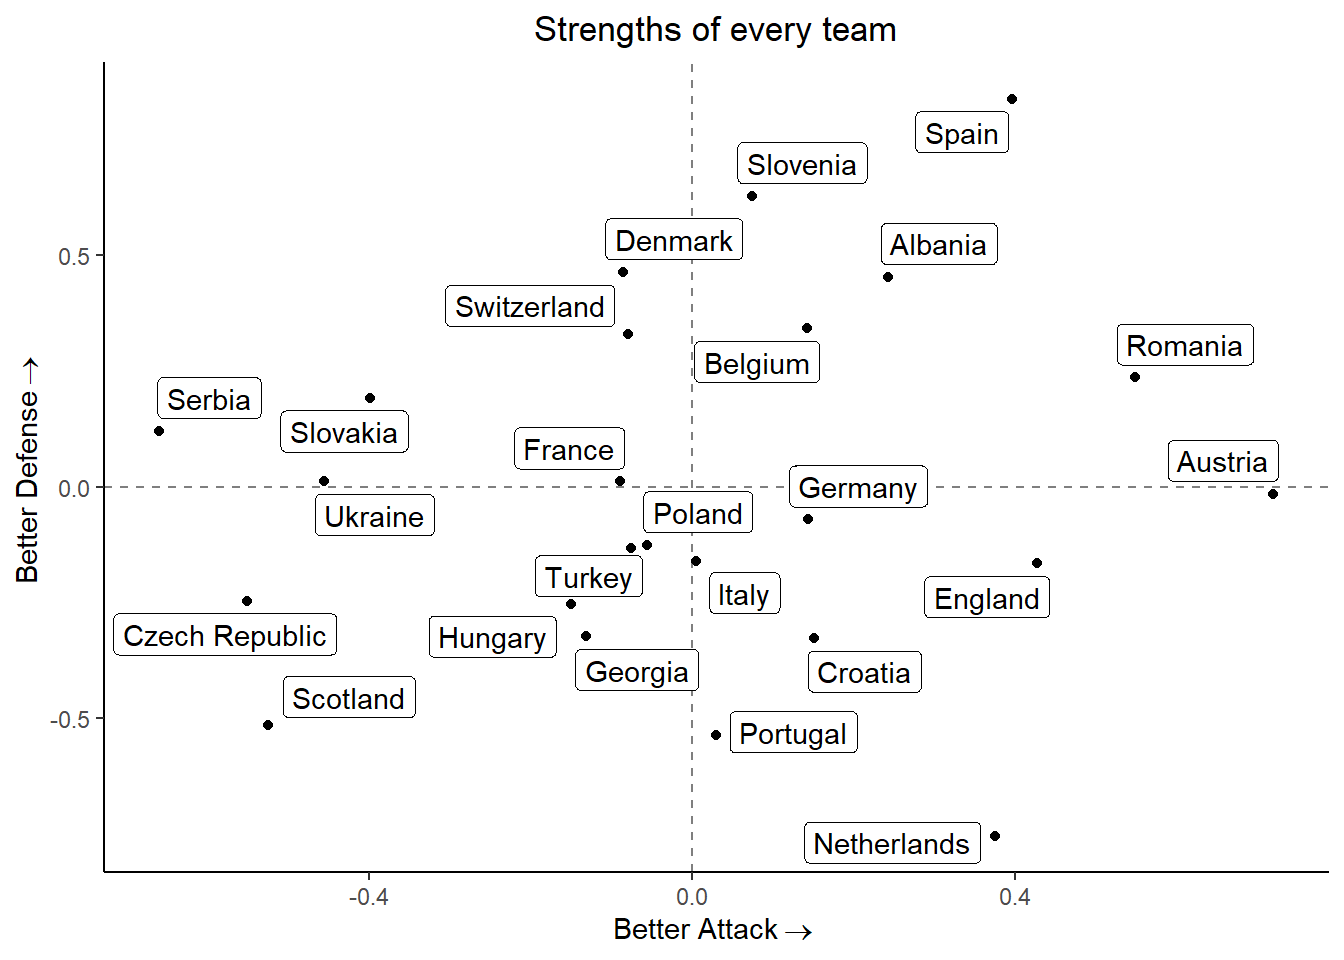
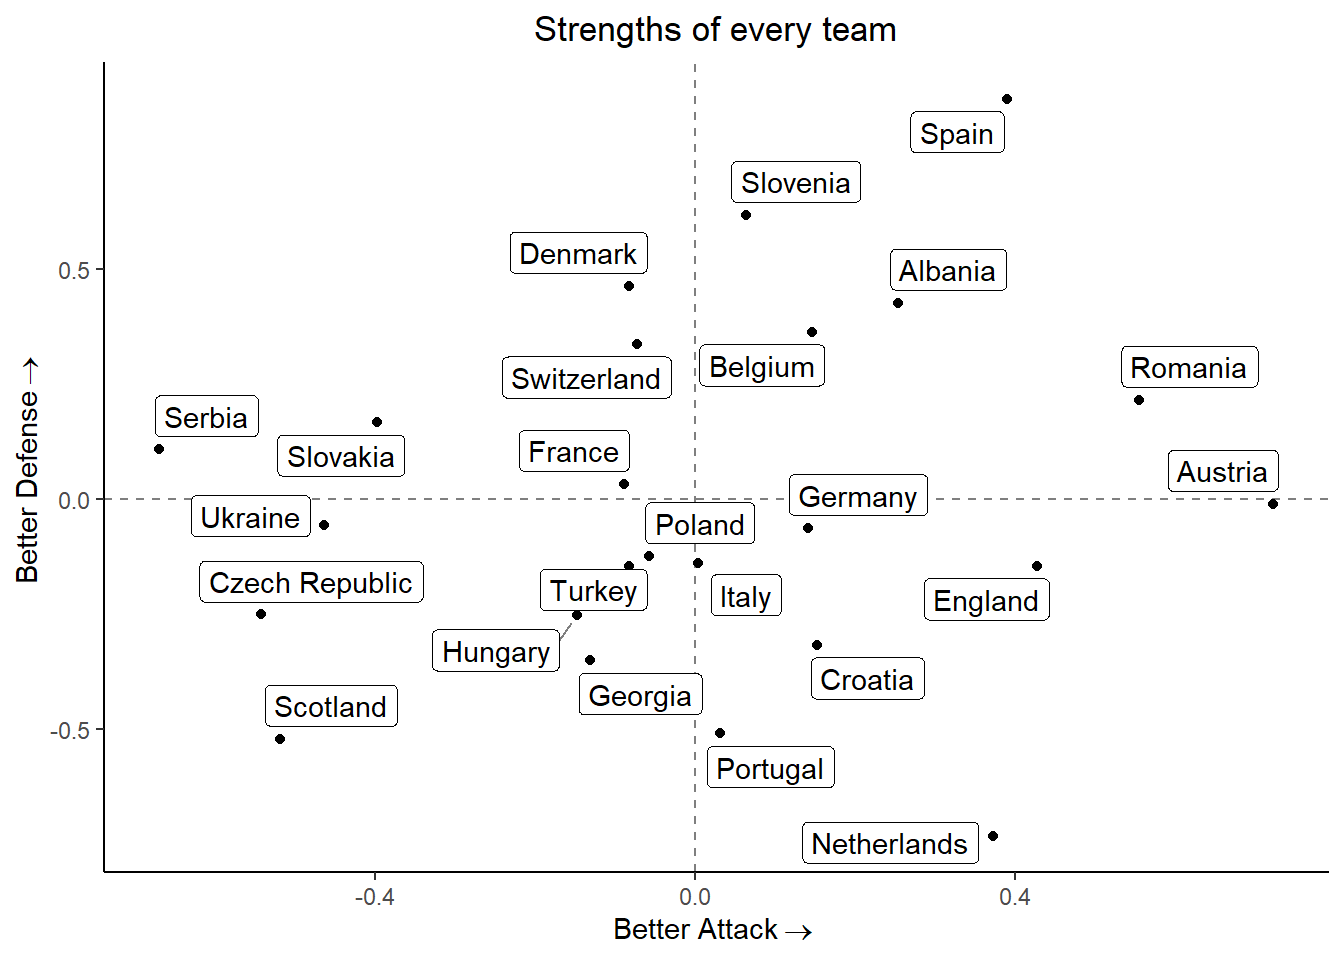
update euro

diff --git a/docs/projects/euro_2024.html b/docs/projects/euro_2024.html
@@ -285,7 +285,7 @@ pre > code.sourceCode > span > a:first-child::before { text-decoration: underlin
 6 2024-06-22 Turkey    Portugal            0          3 UEFA Euro  Dort… Germany
 7 2024-06-26 Georgia   Portugal            2          0 UEFA Euro  Gels… Germany
 8 2024-07-01 Portugal  Slovenia            0          0 UEFA Euro  Fran… Germany
-9 2024-07-05 Portugal  France             NA         NA UEFA Euro  Hamb… Germany
+9 2024-07-05 Portugal  France              0          0 UEFA Euro  Hamb… Germany
 # ℹ 3 more variables: neutral &lt;lgl&gt;, id &lt;int&gt;, cup &lt;chr&gt;</code></pre>
 </div>
 </div>
@@ -294,7 +294,7 @@ pre > code.sourceCode > span > a:first-child::before { text-decoration: underlin
 <div class="sourceCode cell-code" id="cb8"><pre class="sourceCode r code-with-copy"><code class="sourceCode r"><span id="cb8-1"><a href="#cb8-1" aria-hidden="true" tabindex="-1"></a>scores <span class="sc">%&gt;%</span> </span>
 <span id="cb8-2"><a href="#cb8-2" aria-hidden="true" tabindex="-1"></a>  <span class="fu">filter</span>(home_team <span class="sc">==</span> <span class="st">"Colombia"</span> <span class="sc">|</span> away_team <span class="sc">==</span> <span class="st">"Colombia"</span>)</span></code><button title="Copy to Clipboard" class="code-copy-button"><i class="bi"></i></button></pre></div>
 <div class="cell-output cell-output-stdout">
-<pre><code># A tibble: 12 × 11
+<pre><code># A tibble: 13 × 11
    date       home_team away_team home_score away_score tournament city  country
    &lt;date&gt;     &lt;chr&gt;     &lt;chr&gt;          &lt;dbl&gt;      &lt;dbl&gt; &lt;chr&gt;      &lt;chr&gt; &lt;chr&gt;  
  1 2023-09-07 Colombia  Venezuela          1          0 FIFA Worl… Barr… Colomb…
@@ -308,7 +308,8 @@ pre > code.sourceCode > span > a:first-child::before { text-decoration: underlin
  9 2024-06-15 Colombia  Bolivia            3          0 Friendly   Denv… United…
 10 2024-06-24 Colombia  Paraguay           2          1 Copa Amér… Hous… United…
 11 2024-06-28 Colombia  Costa Ri…          3          0 Copa Amér… Glen… United…
-12 2024-07-02 Brazil    Colombia          NA         NA Copa Amér… Sant… United…
+12 2024-07-02 Brazil    Colombia           1          1 Copa Amér… Sant… United…
+13 2024-07-06 Colombia  Panama            NA         NA Copa Amér… Glen… United…
 # ℹ 3 more variables: neutral &lt;lgl&gt;, id &lt;int&gt;, cup &lt;chr&gt;</code></pre>
 </div>
 </div>
@@ -480,20 +481,23 @@ pre > code.sourceCode > span > a:first-child::before { text-decoration: underlin
 <div class="sourceCode cell-code" id="cb21"><pre class="sourceCode r code-with-copy"><code class="sourceCode r"><span id="cb21-1"><a href="#cb21-1" aria-hidden="true" tabindex="-1"></a>test_pred <span class="sc">%&gt;%</span> </span>
 <span id="cb21-2"><a href="#cb21-2" aria-hidden="true" tabindex="-1"></a>  <span class="fu">print</span>(<span class="at">n =</span> <span class="fl">1e3</span>)</span></code><button title="Copy to Clipboard" class="code-copy-button"><i class="bi"></i></button></pre></div>
 <div class="cell-output cell-output-stdout">
-<pre><code># A tibble: 11 × 5
+<pre><code># A tibble: 14 × 5
       id `Team 1`    `Exp. Goals` `Team 2`    `Exp. Goals 2`
    &lt;int&gt; &lt;chr&gt;              &lt;dbl&gt; &lt;chr&gt;                &lt;dbl&gt;
- 1    91 Italy              0.598 Switzerland          0.787
- 2    92 Denmark            1.11  Germany              0.979
- 3    93 England            1.50  Slovakia             0.583
- 4    94 Georgia            0.302 Spain                3.06 
- 5    95 Belgium            0.787 France               0.461
- 6    96 Portugal           0.748 Slovenia             1.30 
- 7    97 Netherlands        1.37  Romania              2.63 
- 8    98 Austria            2.42  Turkey               0.800
- 9    99 Germany            0.399 Spain                1.23 
-10   100 France             1.11  Portugal             0.672
-11   101 England            0.932 Switzerland          0.789</code></pre>
+ 1    91 Italy              0.625 Switzerland          0.802
+ 2    92 Denmark            1.11  Germany              1.00 
+ 3    93 England            1.50  Slovakia             0.577
+ 4    94 Georgia            0.292 Spain                3.03 
+ 5    95 Belgium            0.763 France               0.456
+ 6    96 Portugal           0.782 Slovenia             1.30 
+ 7    97 Netherlands        1.36  Romania              2.62 
+ 8    98 Austria            2.43  Turkey               0.783
+ 9    99 Germany            0.584 Spain                1.60 
+10   100 France             1.11  Portugal             0.697
+11   101 England            0.914 Switzerland          0.78 
+12   102 Netherlands        1.76  Turkey               1.33 
+13   103 France             0.310 Spain                0.978
+14   104 England            2.23  Netherlands          1.22 </code></pre>
 </div>
 </div>
 <p>According to this, the quarter-finals will be Switzerland vs England, Austria vs Netherlands, France vs Slovenia, Germany vs Spain.</p>
@@ -526,19 +530,22 @@ pre > code.sourceCode > span > a:first-child::before { text-decoration: underlin
 <div class="sourceCode cell-code" id="cb24"><pre class="sourceCode r code-with-copy"><code class="sourceCode r"><span id="cb24-1"><a href="#cb24-1" aria-hidden="true" tabindex="-1"></a>test_pred <span class="sc">%&gt;%</span> </span>
 <span id="cb24-2"><a href="#cb24-2" aria-hidden="true" tabindex="-1"></a>  <span class="fu">print</span>(<span class="at">n =</span> <span class="fl">1e3</span>)</span></code><button title="Copy to Clipboard" class="code-copy-button"><i class="bi"></i></button></pre></div>
 <div class="cell-output cell-output-stdout">
-<pre><code># A tibble: 10 × 5
+<pre><code># A tibble: 13 × 5
       id `Team 1`      `Exp. Goals` `Team 2`      `Exp. Goals 2`
    &lt;int&gt; &lt;chr&gt;                &lt;dbl&gt; &lt;chr&gt;                  &lt;dbl&gt;
- 1    84 Argentina            1.41  Peru                  0.0404
- 2    85 Canada               0.874 Chile                 1.04  
- 3    86 Ecuador              1.46  Mexico                1.08  
- 4    87 Jamaica              0.368 Venezuela             2.16  
- 5    88 United States        0.815 United States         0.815 
- 6    89 Bolivia              0.806 Panama                1.21  
- 7    90 Brazil               1.31  Colombia              1.77  
- 8    91 Costa Rica           0.494 Paraguay              0.621 
- 9    92 Argentina            1.27  Ecuador               0.402 
-10    93 Canada               0.617 Venezuela             1.82  </code></pre>
+ 1    84 Argentina            1.43  Peru                  0.0381
+ 2    85 Canada               0.874 Chile                 1.02  
+ 3    86 Ecuador              1.47  Mexico                1.09  
+ 4    87 Jamaica              0.377 Venezuela             2.14  
+ 5    88 United States        0.807 United States         0.807 
+ 6    89 Bolivia              0.822 Panama                1.22  
+ 7    90 Brazil               1.31  Colombia              1.75  
+ 8    91 Costa Rica           0.487 Paraguay              0.616 
+ 9    92 Argentina            1.28  Ecuador               0.405 
+10    93 Canada               0.626 Venezuela             1.80  
+11    94 Brazil               1.06  Uruguay               2.21  
+12    95 Colombia             2.74  Panama                0.538 
+13    96 Argentina            2.12  Canada                0.417 </code></pre>
 </div>
 </div>
 <p>If we want to see the distribution of a particular game, for example the game 92, Argentina vs Ecuador, it will be something like</p>
